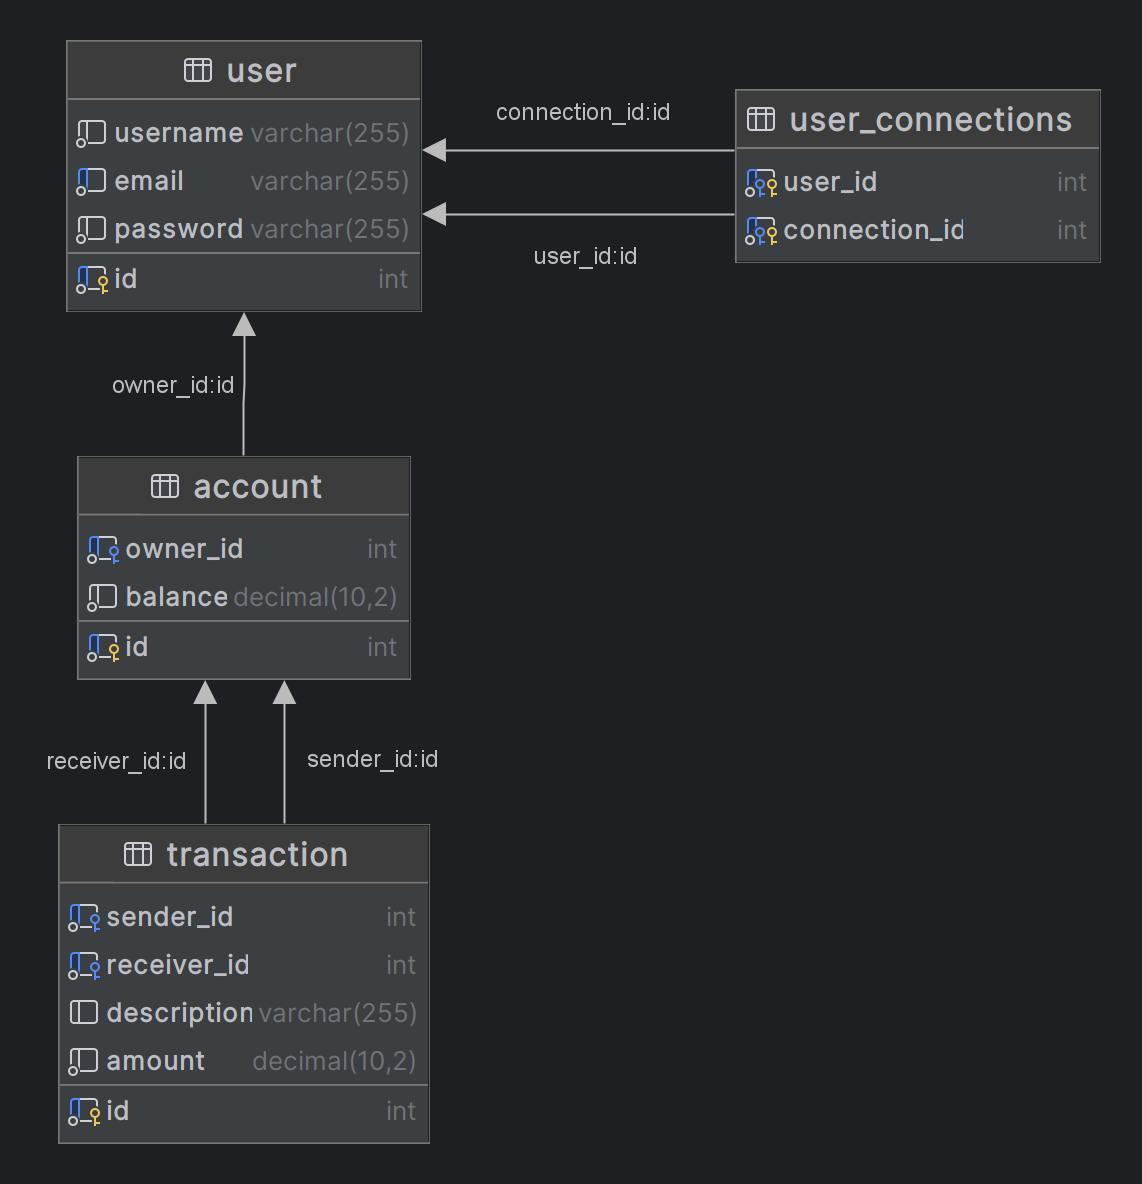
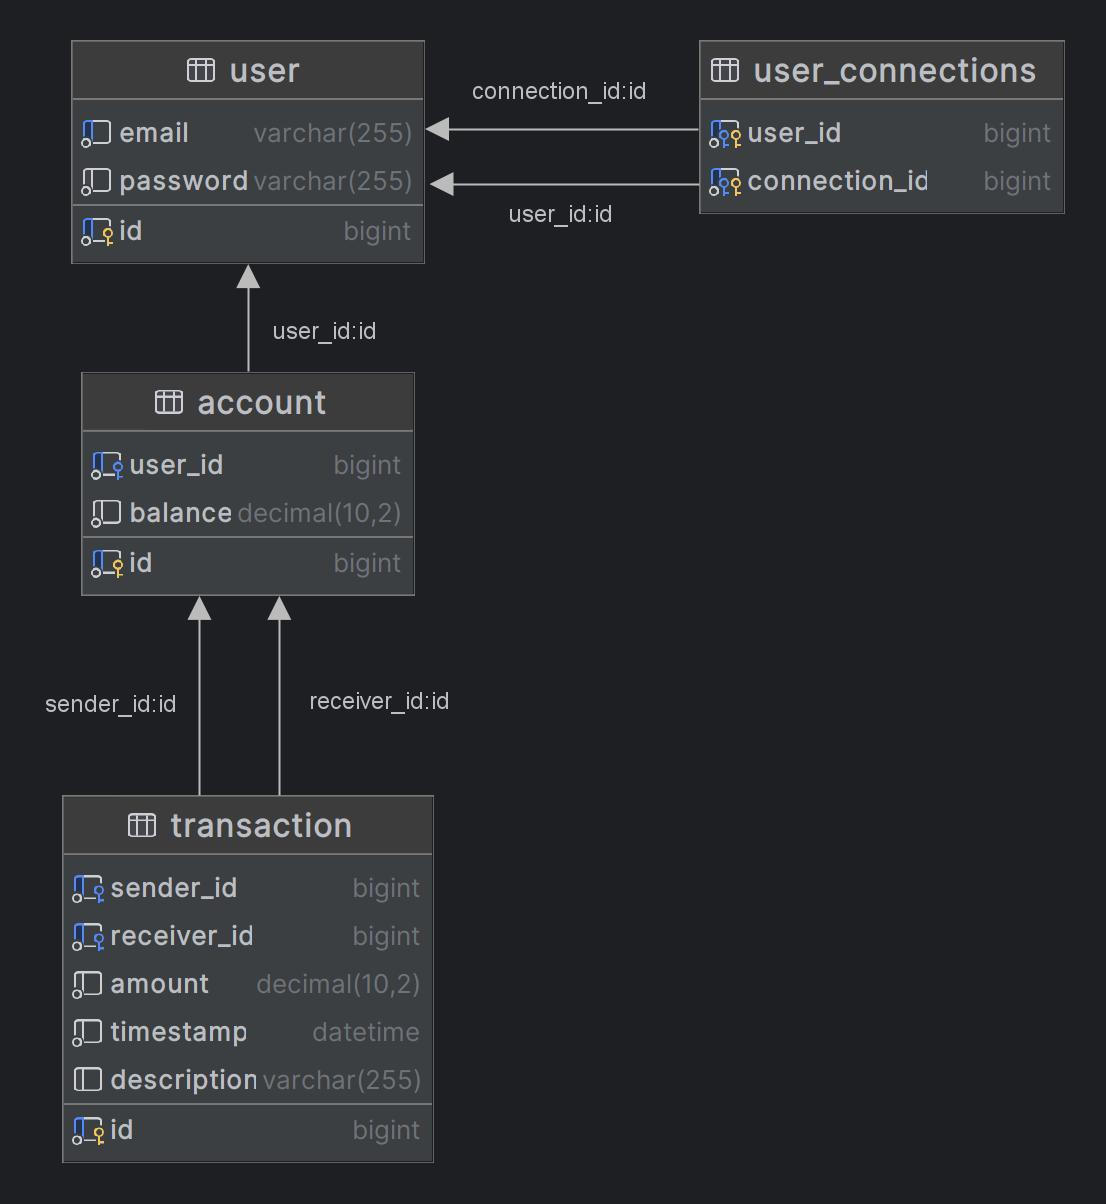
Update MPD according to new database

Changed region(s): [[0.0307, 0.0312, 0.9837, 0.9688]]

diff --git a/src/main/java/com/paymybuddy/model/Transaction.java b/src/main/java/com/paymybuddy/model/Transaction.java
@@ -18,11 +18,11 @@ public class Transaction {
 
     @ManyToOne
     @JoinColumn(name = "sender_id", nullable = false)
-    private User sender;
+    private Account sender;
 
     @ManyToOne
     @JoinColumn(name = "receiver_id", nullable = false)
-    private User receiver;
+    private Account receiver;
 
     @Column(nullable = false)
     private BigDecimal amount;
